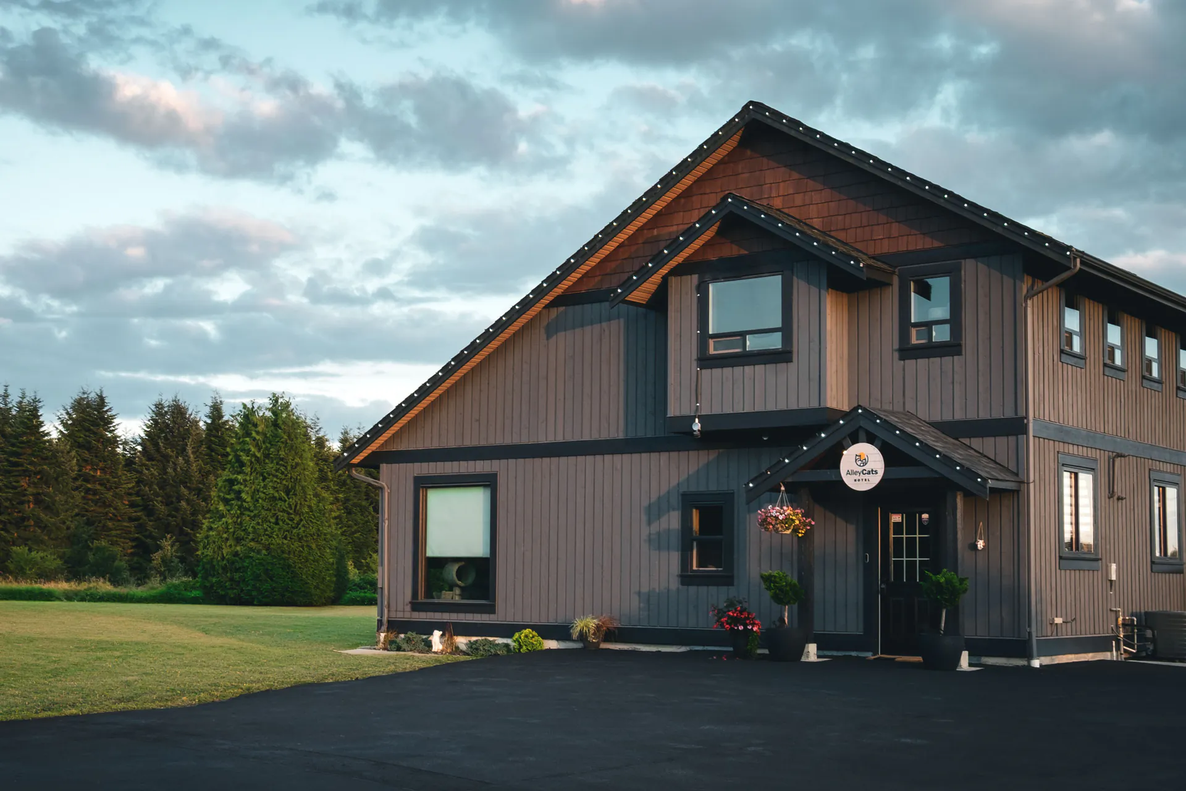
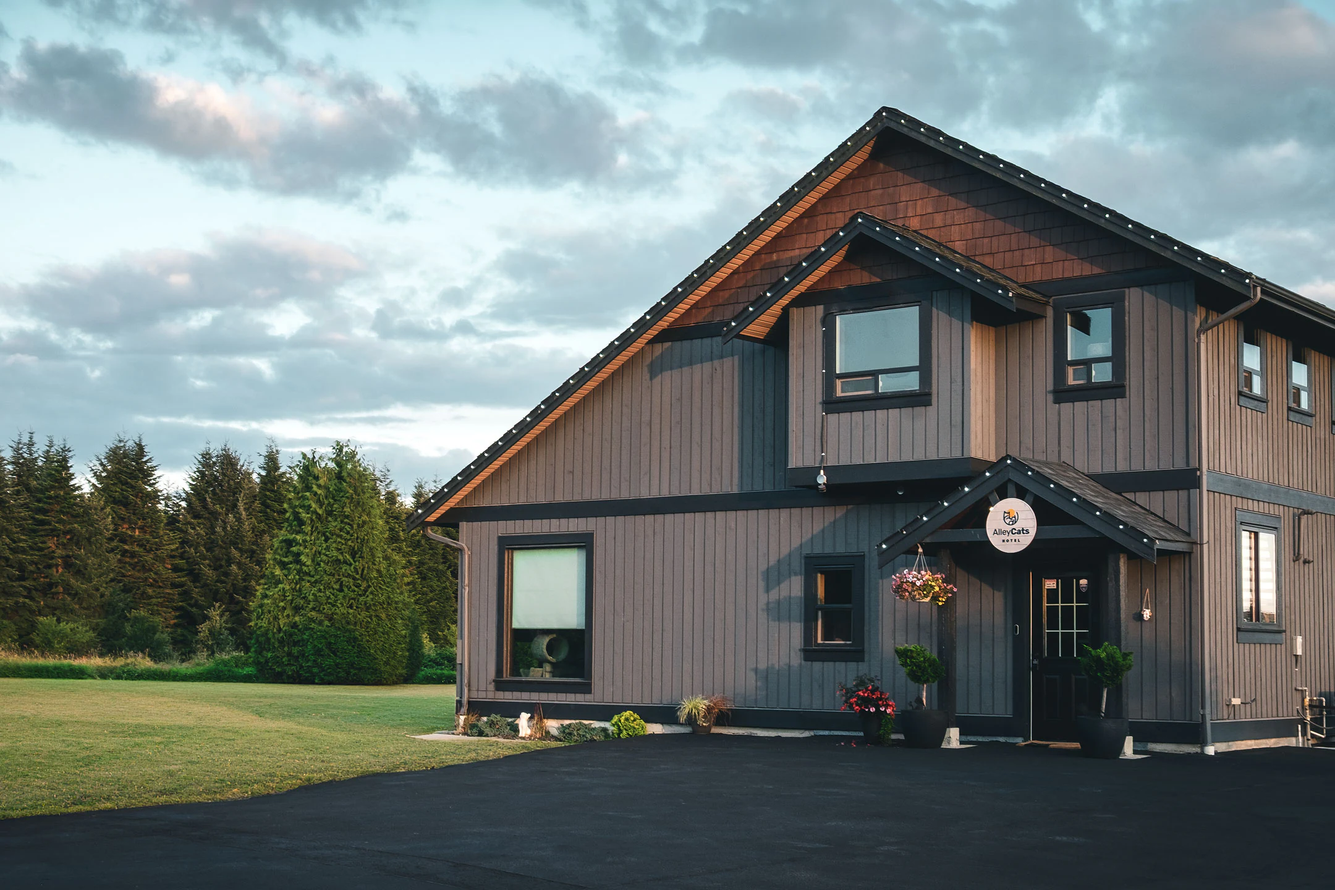
Tweaking hero photo for better visibility

diff --git a/docs/css/home.css b/docs/css/home.css
@@ -32,7 +32,6 @@
 .original-overlay {
   position: absolute;
   inset: 0;
-  background: rgba(22, 31, 37, 0.48);
 }
 
 .original-hero-copy {
@@ -598,7 +597,26 @@
 }
 
 .original-overlay {
-  background: rgba(30, 40, 50, 0.55);
+  background: linear-gradient(
+    90deg,
+    rgba(12, 30, 41, 0.74) 0%,
+    rgba(12, 30, 41, 0.62) 28%,
+    rgba(12, 30, 41, 0.3) 60%,
+    rgba(12, 30, 41, 0.08) 82%,
+    transparent 100%
+  );
+}
+
+@media (max-width: 767px) {
+  .original-overlay {
+    background: linear-gradient(
+      90deg,
+      rgba(12, 30, 41, 0.72) 0%,
+      rgba(12, 30, 41, 0.6) 44%,
+      rgba(12, 30, 41, 0.32) 78%,
+      rgba(12, 30, 41, 0.16) 100%
+    );
+  }
 }
 
 .original-hero-copy h1 {
